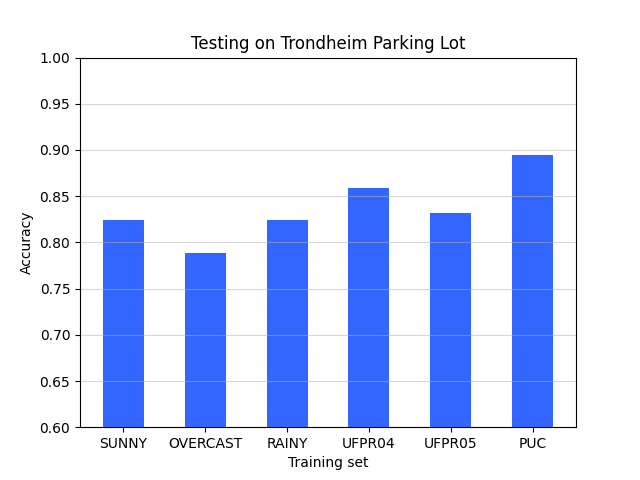
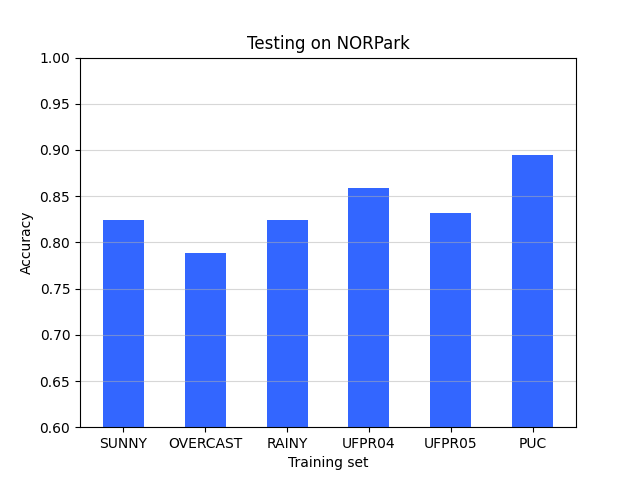
updated fig5 results

Changed region(s): [[0.2812, 0.0625, 0.75, 0.125]]

diff --git a/main_fig5.py b/main_fig5.py
@@ -2,9 +2,8 @@
 from utils.options import args_parser
 from utils.imshow import imshow
 from model.malexnet import mAlexNet
-from model.alexnet import AlexNet
 from utils.dataloader import selfData
-from utils.train_weather import train
+from utils.train import train
 from utils.test import test
 
 import os
@@ -29,7 +28,6 @@ if __name__=="__main__":
         transforms.Normalize((0.5, 0.5, 0.5), (0.5, 0.5, 0.5))
     ])
 
-    args.epochs = 6
     net = mAlexNet().to(device)
     criterion = nn.CrossEntropyLoss()
 
@@ -46,19 +44,14 @@ if __name__=="__main__":
         train(args.epochs, args.train_img, train_set, transforms, net, criterion)
         PATH = './trained.pth'
         torch.save(net.state_dict(), PATH)
+        net = mAlexNet().to(device)
         net.load_state_dict(torch.load(PATH))
         for test_set in args.test_lab:
-            if test_set == train_set:
-                accuracy = 'none'
-                print("Skip to next test.")
-            elif test_set == 'splits/PKLot/val.txt':
+            args.test_img = 'CNRPark-EXT/PATCHES/'
+            if test_set == 'splits/PKLot/val.txt':
                 args.test_img = 'PKLot/PKLotSegmented'
-                accuracy = test(args.test_img, test_set, transforms, net)
-                print("Training on '{}' and testing on '{}': {:.3f}.\n".format(train_set.split('.')[0], test_set.split('.')[0], accuracy))
-                txt_file.write("Training on '{}' and testing on '{}': {:.3f}.\n".format(train_set.split('.')[0], test_set.split('.')[0], accuracy))
-            else:
-                accuracy = test(args.test_img, test_set, transforms, net)
-                print("Training on '{}' and testing on '{}': {:.3f}.\n".format(train_set.split('.')[0], test_set.split('.')[0], accuracy))
-                txt_file.write("Training on '{}' and testing on '{}': {:.3f}.\n".format(train_set.split('.')[0], test_set.split('.')[0], accuracy))
+            accuracy = test(args.test_img, test_set, transforms, net)
+            print("Training on '{}' and testing on '{}': {:.3f}.\n".format(train_set.split('.')[0], test_set.split('.')[0], accuracy))
+            txt_file.write("Training on '{}' and testing on '{}': {:.3f}.\n".format(train_set.split('.')[0], test_set.split('.')[0], accuracy))
     print("Experiments ended.")
     txt_file.close()

diff --git a/main_tab2.py b/main_tab2.py
@@ -2,7 +2,6 @@
 from utils.options import args_parser
 from utils.imshow import imshow
 from model.malexnet import mAlexNet
-from model.alexnet import AlexNet
 from utils.dataloader import selfData
 from utils.train import train
 from utils.test import test
@@ -37,17 +36,15 @@ if __name__=="__main__":
     args.test_img = 'PKLot/PKLotSegmented'
     args.test_lab = ['splits/PKLot/UFPR04_test.txt','splits/PKLot/UFPR05_test.txt', 'splits/PKLot/PUC_test.txt']
 
-    # txt_file = open("tab2_results.txt", 'a')
-    # txt_file.write("Start training: {}\n".format(datetime.now()))
-
     for train_set in args.train_lab:
         train(args.epochs, args.train_img, train_set, transforms, net, criterion)
         PATH = './trained.pth'
         torch.save(net.state_dict(), PATH)
-    #     net.load_state_dict(torch.load(PATH))
-    #     for test_set in args.test_lab:
-    #         accuracy = test(args.test_img, test_set, transforms, net)
-    #         print("Training on '{}' and testing on '{}': {:.3f}.\n".format(train_set.split('.')[0], test_set.split('.')[0], accuracy))
-    #         txt_file.write("Training on '{}' and testing on '{}': {:.3f}.\n".format(train_set.split('.')[0], test_set.split('.')[0], accuracy))
-    # print("Experiments ended.")
-    # txt_file.close()
+        net = mAlexNet().to(device)
+        net.load_state_dict(torch.load(PATH))
+        for test_set in args.test_lab:
+            accuracy = test(args.test_img, test_set, transforms, net)
+            print("Training on '{}' and testing on '{}': {:.3f}.\n".format(train_set.split('.')[0], test_set.split('.')[0], accuracy))
+            txt_file.write("Training on '{}' and testing on '{}': {:.3f}.\n".format(train_set.split('.')[0], test_set.split('.')[0], accuracy))
+    print("Experiments ended.")
+    txt_file.close()

diff --git a/utils/train.py b/utils/train.py
@@ -11,11 +11,11 @@ def train(epoch, img_path, target_path, transforms, net, criterion):
     train_dataset = selfData(img_path, target_path, transforms)
     train_loader = DataLoader(train_dataset, batch_size = 64, shuffle = True, num_workers = 0,drop_last= False, collate_fn=collate_fn)
     for ep in range(epoch):  
+        learning_rate = 0.01
         if ep >= 12:
             learning_rate = 0.0025
         elif ep >= 6:
             learning_rate = 0.005
-        learning_rate = 0.01
         running_loss = 0.0
         print("Epoch {}.".format(ep+1))
         for i, data in enumerate(train_loader,1):
@@ -26,16 +26,12 @@ def train(epoch, img_path, target_path, transforms, net, criterion):
                 device = torch.device("cuda:0")
                 inputs = inputs.to(device)
                 labels = labels.to(device)
-            optimizer = optim.SGD(net.parameters(), lr=learning_rate, momentum=0.9)
+            optimizer = optim.SGD(net.parameters(), lr=learning_rate, momentum=0.9, weight_decay=0.0005)
             optimizer.zero_grad()
             outputs = net(inputs)
             loss = criterion(outputs, labels.long())
             loss.backward()
             optimizer.step()
             running_loss += loss.item()
-            print("Epoch {}.\tBatch {}.\tLoss = {:.3f}.".format(ep+1, i+1, running_loss))
-            if i % 2000 == 1999:    # 2000 mini-batches
-                print('[%d, %5d] loss: %.3f' %
-                    (epoch + 1, i + 1, running_loss / 2000))
-                running_loss = 0.0
+            print("Epoch {}.\tBatch {}.\tLoss = {:.3f}.".format(ep+1, i, running_loss))
     print('Finished Training.')

diff --git a/main_nor.py b/main_nor.py
@@ -2,7 +2,6 @@
 from utils.options import args_parser
 from utils.imshow import imshow
 from model.malexnet import mAlexNet
-from model.alexnet import AlexNet
 from utils.dataloader import selfData
 from utils.train_weather import train
 from utils.test import test
@@ -43,6 +42,7 @@ if __name__=="__main__":
              'trained_model/rainy.pth','trained_model/04.pth',
              'trained_model/05.pth','trained_model/puc.pth']
     for PATH in PATHS:
+        net = mAlexNet().to(device)
         net.load_state_dict(torch.load(PATH))
         accuracy = test(args.test_img, args.test_lab, transforms, net)
         trained_name = PATH.split('/')[-1].split('.jpg')[0]

diff --git a/results/2_fig5/fig5.py b/results/2_fig5/fig5.py
@@ -53,3 +53,9 @@ overcast= (0.92, 0, 0.95, 0.82)
 rainy = (0.94, 0.97, 0, 0.92)
 title = 'Inter-weather experiment (paper)'
 plot_fig5(sunny, overcast, rainy, title)
+
+sunny = (0.937, 0.95, 0.909, 0.786)
+overcast= (0.916, 0.965, 0.967, 0.682)
+rainy = (0.911, 0.954, 0.944, 0.747)
+title = 'Inter-weather experiment (reproduction)'
+plot_fig5(sunny, overcast, rainy, title)

diff --git a/results/3_nor/nor.py b/results/3_nor/nor.py
@@ -17,7 +17,7 @@ color='#3366ff'
 
 plt.xlabel('Training set')
 plt.ylabel('Accuracy')
-plt.title('Testing on Trondheim Parking Lot')
+plt.title('Testing on NORPark')
 plt.xticks(index , ('SUNNY', 'OVERCAST', 'RAINY', 'UFPR04', 'UFPR05', 'PUC'))
 
 plt.ylim(0.6, 1)
